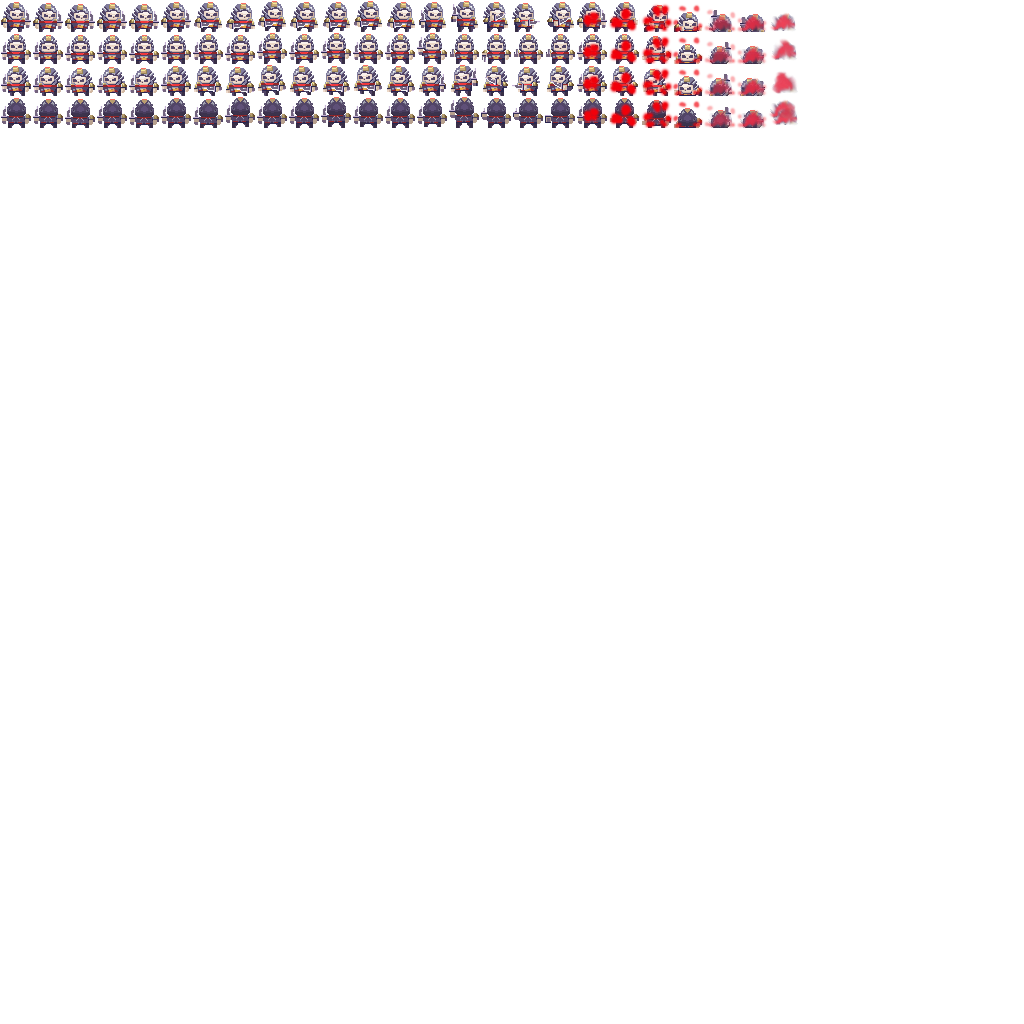
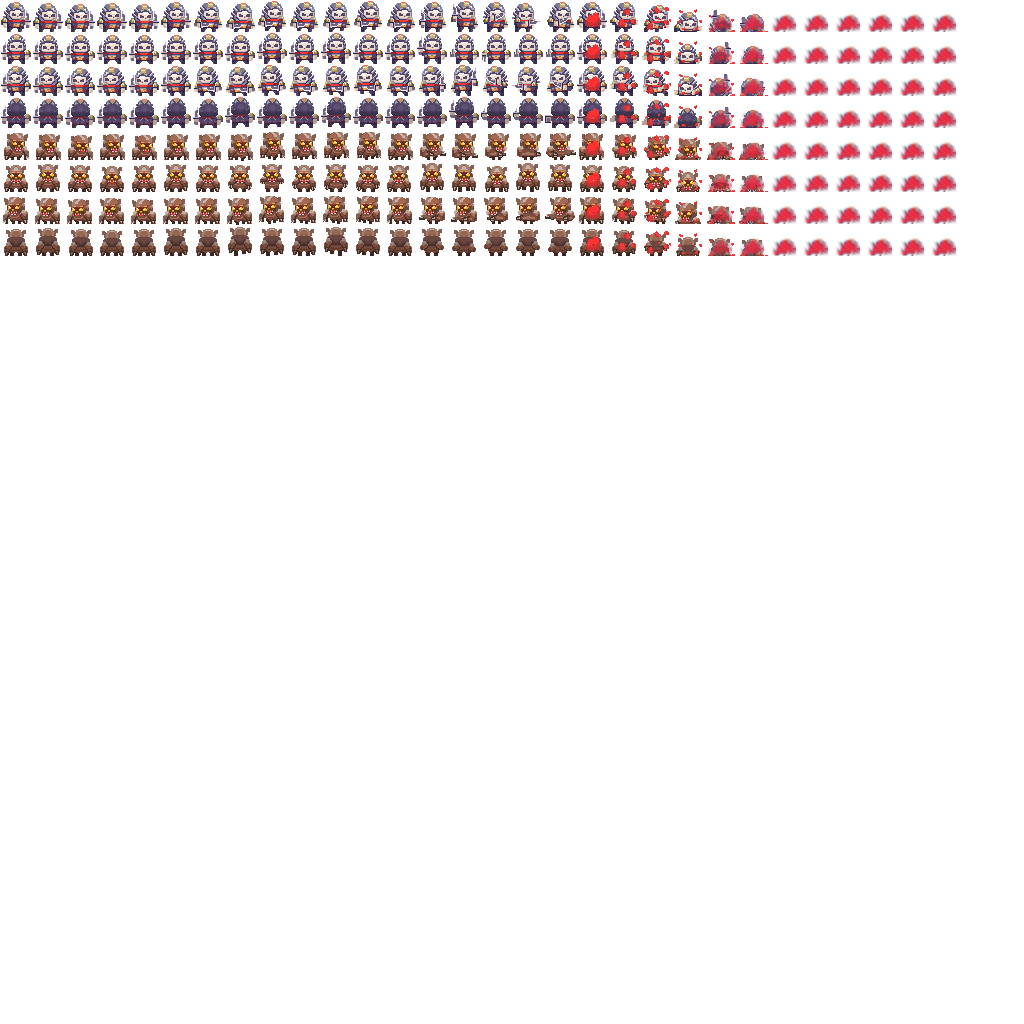
Hotswapped textures are now premultiplied. When working on devbox, the hotswapping happens from the source content directory (and all files are also copied to the HotSwap directory, for eventual distribution to other non-dev team members).

Changed region(s): [[0.0, 0.0, 0.9375, 0.25]]

diff --git a/Terracotta/Terracotta/Game.cs b/Terracotta/Terracotta/Game.cs
@@ -7,6 +7,10 @@ using Microsoft.Xna.Framework.Input;
 using FragSharpHelper;
 using FragSharpFramework;
 
+#if DEBUG
+using System.IO;
+#endif
+
 namespace GpuSim
 {
     public class GameClass : Game
@@ -51,8 +55,34 @@ namespace GpuSim
             Content.RootDirectory = "Content";
         }
 
+        public string HotSwapDir = "Content\\HotSwap\\";
         protected override void Initialize()
         {
+#if DEBUG
+            string ProjDir  = "C:/Users/Jordan/Desktop/Dir/Pwnee/Games/Terracotta/Terracotta/";
+            string ArtSrcDir = "C:/Users/Jordan/Desktop/Dir/Pwnee/Games/Terracotta/Terracotta/Terracotta/TerracottaContent/Art/";
+
+            var cwd = Path.GetDirectoryName(System.Reflection.Assembly.GetExecutingAssembly().Location).Replace('\\', '/');
+
+            if (cwd.Contains(ProjDir))
+            {
+                HotSwapDir = "C:/Users/Jordan/Desktop/Dir/Pwnee/Games/Terracotta/Terracotta/Terracotta/Terracotta/bin/x86/Debug/Content/HotSwap/";
+
+                Directory.Delete(HotSwapDir, true);
+
+                var source_art = Directory.EnumerateFiles(ArtSrcDir, "*", SearchOption.AllDirectories);
+
+                foreach (var file in source_art)
+                {
+                    string dest = file.Replace("TerracottaContent/Art", "Terracotta/bin/x86/Debug/Content/HotSwap");
+                    Directory.CreateDirectory(Path.GetDirectoryName(dest));
+                    File.Copy(file, dest);
+                }
+
+                HotSwapDir = ArtSrcDir;
+            }
+#endif
+
             FragSharp.Initialize(Content, GraphicsDevice);
             GridHelper.Initialize(GraphicsDevice);
 
@@ -108,19 +138,22 @@ namespace GpuSim
             if (Buttons.Back.Down())
                 this.Exit();
 
-            if (Keys.Z.Pressed())
+            if (World.MapEditor)
             {
-                Assets.Initialize();
-            }
+                if (Keys.Z.Pressed())
+                {
+                    Assets.Initialize();
+                }
 
-            if (Keys.S.Pressed())
-            {
-                World.Save("TestSave.m3n");
-            }
+                if (Keys.S.Pressed())
+                {
+                    World.Save("TestSave.m3n");
+                }
 
-            if (Keys.L.Pressed())
-            {
-                World.Load("TestSave.m3n");
+                if (Keys.L.Pressed())
+                {
+                    World.Load("TestSave.m3n");
+                }
             }
 
             World.Update();

diff --git a/Terracotta/Terracotta/Util/ExtensionClasses.cs b/Terracotta/Terracotta/Util/ExtensionClasses.cs
@@ -16,19 +16,6 @@ namespace GpuSim
         }
     }
 
-    public static class Texture2DExtension
-    {
-        public static vec2 UnitSize(this Texture2D Texture)
-        {
-            return new vec2(1, (float)Texture.Height / (float)Texture.Width);
-        }
-
-        public static vec2 Size(this Texture2D Texture)
-        {
-            return new vec2(Texture.Width, Texture.Height);
-        }
-    }
-
     public static class ListExtension
     {
         public static void Swap<T>(this List<T> List, int Index, ref T NewElement)
@@ -41,6 +28,30 @@ namespace GpuSim
 
     public static class Texture2dExtension
     {
+        public static vec2 UnitSize(this Texture2D Texture)
+        {
+            return new vec2(1, (float)Texture.Height / (float)Texture.Width);
+        }
+
+        public static vec2 Size(this Texture2D Texture)
+        {
+            return new vec2(Texture.Width, Texture.Height);
+        }
+
+        public static Texture2D PremultiplyAlpha(this Texture2D texture)
+        {
+            Color[] data = texture.GetData();
+            
+            for (int i = 0; i < data.Length; i++)
+            {
+                data[i] = new Color(new Vector4(data[i].ToVector3() * (data[i].A / 255f), (data[i].A / 255f)));
+            }
+
+            texture.SetData(data);
+
+            return texture;
+        }
+
         static bool BoundsCheck(Rectangle rect, int w, int h)
         {
             return rect.Right <= w && rect.Bottom <= h && rect.Left >= 0 && rect.Top >= 0;

diff --git a/Terracotta/Terracotta/Assets.cs b/Terracotta/Terracotta/Assets.cs
@@ -49,9 +49,9 @@ namespace GpuSim
             {
                 if (HotSwap)
                 {
-                    using (var file = File.OpenRead("Content\\HotSwap\\" + FileName + ".png"))
+                    using (var file = File.OpenRead(GameClass.Game.HotSwapDir + FileName + ".png"))
                     {
-                        return Texture2D.FromStream(GameClass.Game.GraphicsDevice, file);
+                        return Texture2D.FromStream(GameClass.Game.GraphicsDevice, file).PremultiplyAlpha();
                     }
                 }
                 else

diff --git a/Terracotta/Terracotta/Drawing/DrawUnit.cs b/Terracotta/Terracotta/Drawing/DrawUnit.cs
@@ -111,12 +111,12 @@ namespace GpuSim
             bool draw_selected = selected(u) && pos.y > select_size;
 
             pos.x += floor(frame);
-            pos.y += (Float(direction) - 1);
+            pos.y += (Float(direction) - 1) +4 * (Float(d.player) - 1);
             pos *= UnitSpriteSheet.SpriteSize;
 
             var clr = Texture[pos];
 
-            clr = PlayerColorize(clr, d.player);
+            //clr = PlayerColorize(clr, d.player);
             
             if (draw_selected)
             {
